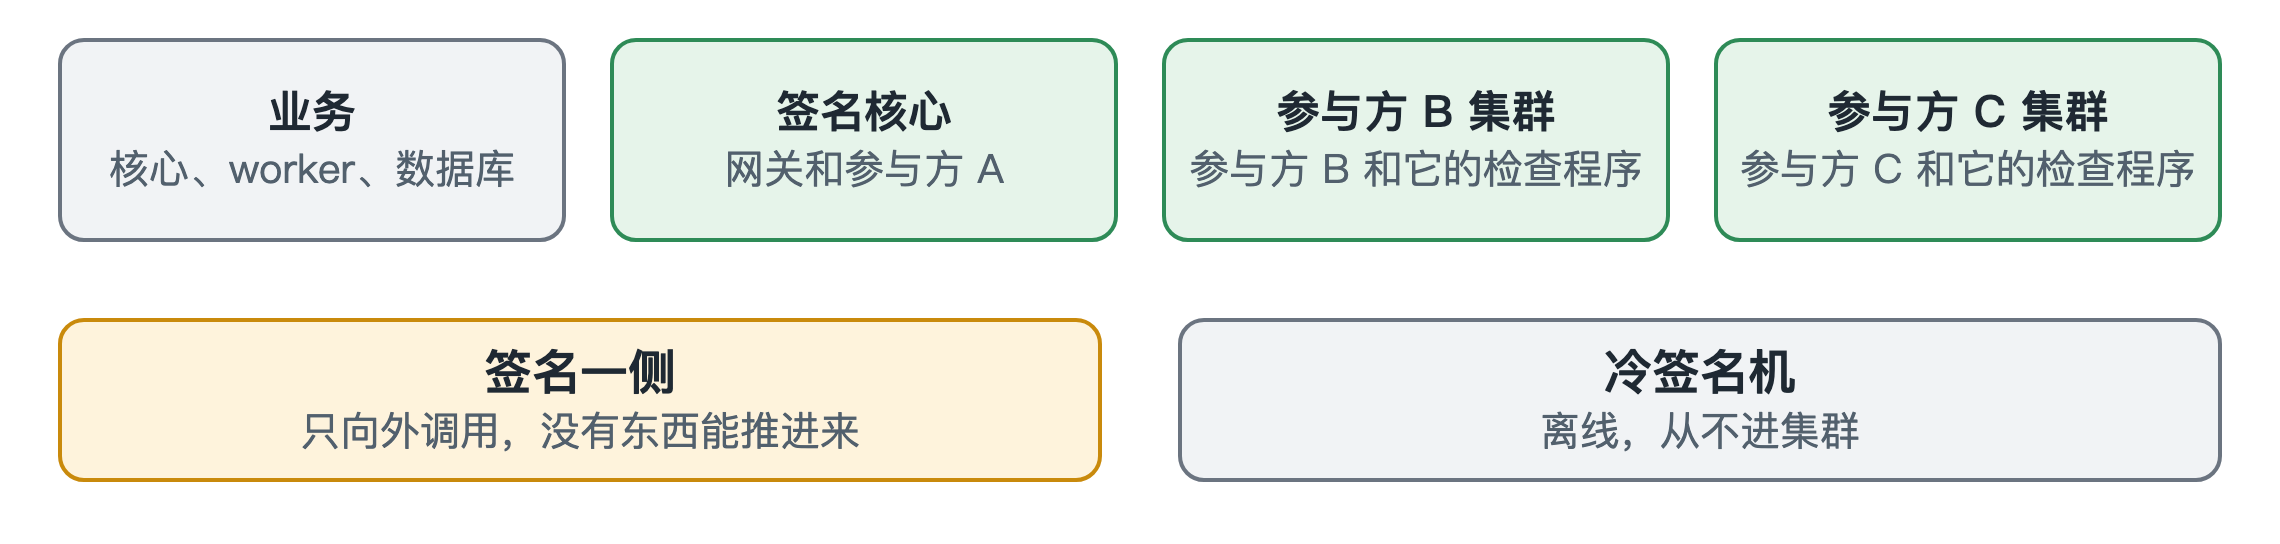
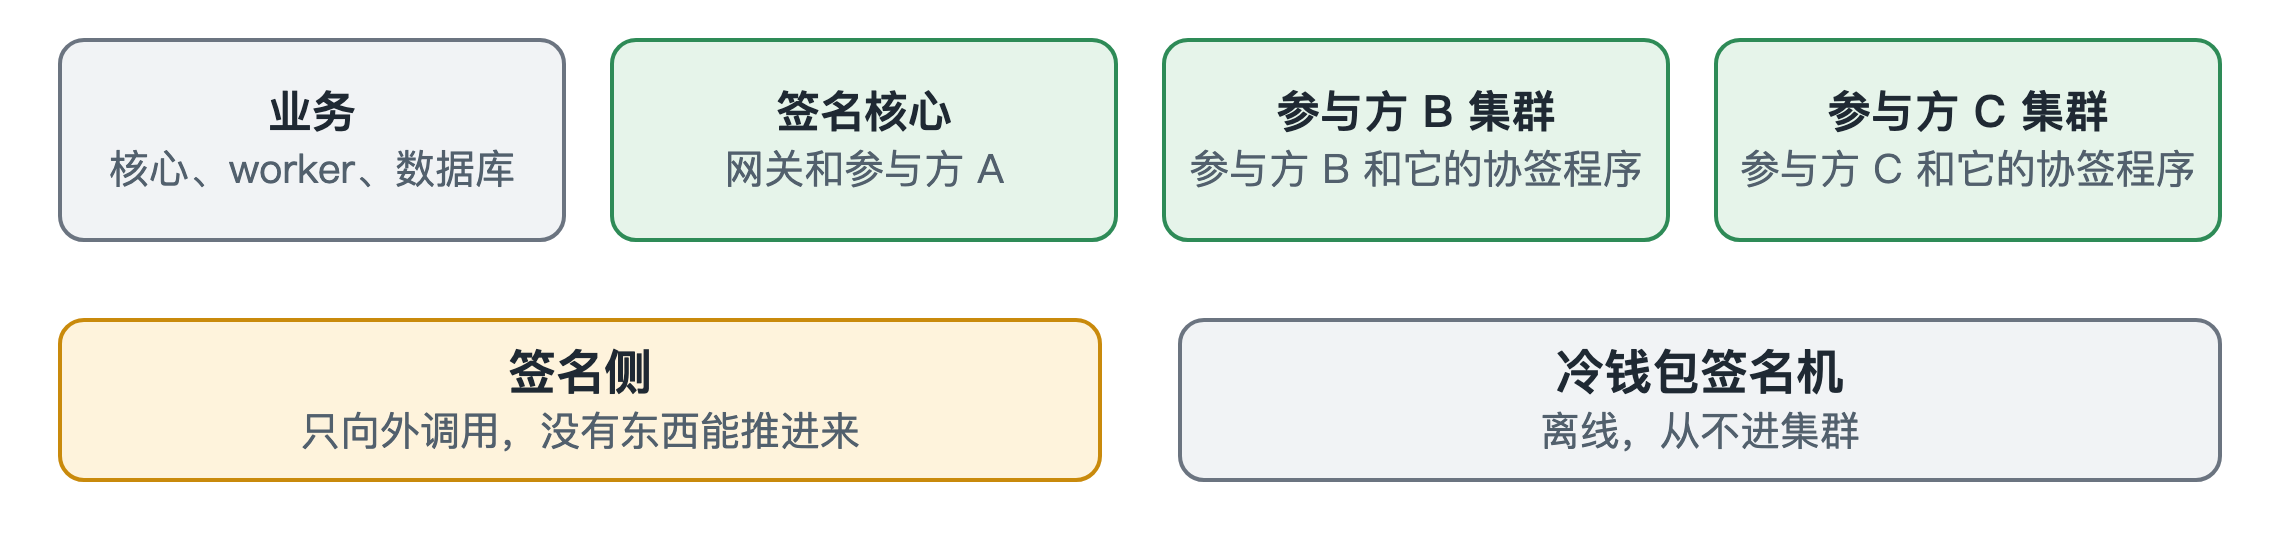
docs: diagram text follows the glossary (cosigner, People, cold signers, 充值, 协签程序, 物理隔离) and regenerated images

diff --git a/docs/images/build.py b/docs/images/build.py
@@ -31,7 +31,7 @@ INK, MUTED = "#1F2933", "#52606D"
 # Chinese text for every English string used below. A string missing here is drawn as is.
 ZH = {
     # architecture tiles
-    "Operators": "运营和审批人", "approve and ask": "审批和发起",
+    "People": "人员", "ask, approve, run": "发起、审批、运营",
     "Core API": "核心 API", "queues jobs, never signs": "只排队任务，从不签名",
     "Workflows": "工作流", "survive crashes": "崩溃后接着走",
     "Ledger": "账本", "double entry, Reconcile": "复式记账、对账",
@@ -44,7 +44,7 @@ ZH = {
     "Solana": "Solana", "durable nonces": "durable nonce",
     "queues sign jobs": "排队签名任务", "asks the parties to sign": "请参与方签名", "signed transactions": "签好的交易",
     # flow
-    "Deposit": "存款", "pays in": "客户转入",
+    "Deposit": "充值", "pays in": "客户转入",
     "Credit": "入账", "when final": "确认后",
     "Sweep": "归集", "to hot": "到热钱包",
     "Withdraw": "提现", "approvals": "审批",
@@ -63,9 +63,9 @@ ZH = {
     "Audit": "审计", "who, how, when": "谁、怎么登录、何时",
     "Signing zone": "签名区", "still checks approver keys itself": "仍自己核对审批人密钥",
     # signing zone
-    "Business side": "业务区", "queues a job": "排队一个任务",
+    "Business side": "业务侧", "queues a job": "排队一个任务",
     "Gateway": "网关", "checks the job": "核对任务",
-    "Cosigners B and C": "B、C 的 cosigner", "check again, alone": "各自再核对一遍",
+    "Cosigners B and C": "B、C 的协签程序", "check again, alone": "各自再核对一遍",
     "Key shares": "密钥份额", "sign together": "一起签名",
     "A check fails": "任何一项核对失败", "nothing is signed, the job says why": "不签名，任务写明原因",
     # ledger
@@ -85,11 +85,11 @@ ZH = {
     "Two-of-three key": "三选二密钥", "any two sign": "任意两方签名",
     "EVM and Solana hot wallets": "EVM、Solana 热钱包",
     "Two-party key tree": "两方密钥树", "A and B both needed": "A 和 B 缺一不可",
-    "Bitcoin, Solana deposit addresses": "Bitcoin、Solana 存款地址",
+    "Bitcoin, Solana deposit addresses": "Bitcoin、Solana 充值地址",
     # tiers
     "Hot wallet": "热钱包", "signs all day": "整天签名", "Cold storage": "冷钱包", "key stays offline": "密钥离线",
     "above upper limit: moves automatically": "高于上限：自动转冷",
-    "below lower limit: refilled by people": "低于下限：由人补充", "Air gap": "隔离网络", "M of N operators approve": "N 人中 M 人批准",
+    "below lower limit: refilled by people": "低于下限：由人补充", "Air gap": "物理隔离", "M of N cold signers approve": "N 位签名人中 M 位批准",
     "refill file": "补充文件",
     # evm
     "Factory": "工厂合约", "owned by the cold key": "归冷密钥所有",
@@ -107,13 +107,13 @@ ZH = {
     "Many small coins": "很多小额币", "merge into one": "合并成一枚", "Consolidate": "合并",
     # solana
     "Address": "地址", "from public data": "来自公开数据",
-    "Deposit": "存款", "read at finalized": "最终确认后读取",
+    "Deposit": "充值", "read at finalized": "最终确认后读取",
     "Batched sweep": "批量归集", "several addresses, one transaction": "多个地址，一笔交易",
     "Nonce account": "nonce 账户", "withdrawal signs its value": "提现签它的值",
     "First version to land": "最先上链的版本", "uses it up; others are refused": "把它用掉，其余被拒绝",
     # new in the sweep
     "Identity": "身份", "login, roles": "登录、角色", "queues jobs only": "只排队任务",
-    "Deposit": "存款", "credited when confirmed": "确认够了才入账",
+    "Deposit": "充值", "credited when confirmed": "确认够了才入账",
     "Send": "发送", "keeps change for a higher fee": "找零里留着加价的余量",
     "Replace": "替换", "same coins, higher fee": "同样的币、更高手续费",
     "Child": "子交易", "pulls a stuck send in": "把卡住的交易拉上链",
@@ -121,7 +121,7 @@ ZH = {
     "Batch": "批量", "many withdrawals, one transaction": "多个提现，一笔交易",
     "Write-once storage": "一次写入存储", "an archiver copies every head": "归档程序复制每个链头",
     # audit
-    "Core": "核心服务", "Cosigner": "Cosigner", "entry": "记录",
+    "Core": "核心服务", "Cosigner": "协签程序", "entry": "记录",
     "Kafka": "Kafka", "heads published, so a cut chain stands out": "链头对外发布，截短的链一眼可见",
     # testing
     "Lane": "泳道", "own DB, chains, tokens": "自己的数据库、链、令牌",
@@ -136,14 +136,14 @@ ZH = {
     # deployment
     "Business": "业务", "core, worker, databases": "核心、worker、数据库",
     "Signing core": "签名核心", "gateway and party A": "网关和参与方 A",
-    "Party B cluster": "参与方 B 集群", "party B and its checker": "参与方 B 和它的检查程序",
-    "Party C cluster": "参与方 C 集群", "party C and its checker": "参与方 C 和它的检查程序",
-    "Signing side": "签名一侧", "only calls out, nothing pushes in": "只向外调用，没有东西能推进来",
-    "Cold signer": "冷签名机", "offline, never in a cluster": "离线，从不进集群",
+    "Party B cluster": "参与方 B 集群", "party B and its cosigner": "参与方 B 和它的协签程序",
+    "Party C cluster": "参与方 C 集群", "party C and its cosigner": "参与方 C 和它的协签程序",
+    "Signing side": "签名侧", "only calls out, nothing pushes in": "只向外调用，没有东西能推进来",
+    "Cold signer": "冷钱包签名机", "offline, never in a cluster": "离线，从不进集群",
     # enclaves
     "Party": "参与方", "starts in": "在飞地里", "an enclave": "启动",
     "Proof": "证明", "of the exact": "确切程序", "program": "的度量结果",
-    "Broker": "代理", "checks, then": "核对后", "releases the key": "才放出密钥",
+    "Broker": "密钥代理", "checks, then": "核对后", "releases the key": "才放出密钥",
     "Key in memory": "内存里的密钥", "opens the": "打开封存", "sealed shares": "的份额",
     "Simulated today": "目前是模拟", "no real enclave has run it yet": "还没有真正的飞地运行过",
 }
@@ -249,7 +249,7 @@ def architecture():
         d.box(left, 2, w - left - right, h - 4, title, sub, c, size=26, sub_size=21)
         return d
 
-    tile("operators", 380, H, "Operators", "approve and ask", "gray").write()
+    tile("operators", 380, H, "People", "ask, approve, run", "gray").write()
 
     d = D("arch-a", 380, 58)  # operators to identity
     d.arrow(190, 2, 190, 56)
@@ -347,7 +347,7 @@ def tiers():
     d.box(820, 40, 290, 120, "Cold storage", "key stays offline", "blue")
     d.arrow(320, 70, 820, 70, "above upper limit: moves automatically", ly=58)
     d.arrow(820, 130, 320, 130, "below lower limit: refilled by people", ly=122)
-    d.box(430, 190, 280, 80, "Air gap", "M of N operators approve", "gray", size=22)
+    d.box(430, 190, 280, 80, "Air gap", "M of N cold signers approve", "gray", size=22)
     d.arrow(570, 190, 570, 138, "", dash=True)
     d.write()
 
@@ -451,7 +451,7 @@ def key_replacement():
 def deployment():
     d = D("deployment", 1140, 272)
     cards(d, [("Business", "core, worker, databases", "gray"), ("Signing core", "gateway and party A", "green"),
-              ("Party B cluster", "party B and its checker", "green"), ("Party C cluster", "party C and its checker", "green")],
+              ("Party B cluster", "party B and its cosigner", "green"), ("Party C cluster", "party C and its cosigner", "green")],
           y=20, h=100, gap=24, size=22)
     d.box(30, 160, 520, 80, "Signing side", "only calls out, nothing pushes in", "amber")
     d.box(590, 160, 520, 80, "Cold signer", "offline, never in a cluster", "gray")

diff --git a/docs/zh/mpc.md b/docs/zh/mpc.md
@@ -4,7 +4,7 @@
 
 这里没有哪台机器持有完整的密钥。每把密钥被切成份额，分给不同的参与方，签名由几方一起完成，就像金库门要几位持钥人同时开锁（多方安全计算，MPC）。
 
-<p align="center"><img src="../images/zh/mpc.png" width="60%" alt="三个参与方各自把密钥份额封存在自己的 HSM 令牌里。EVM 和 Solana 热钱包任意两方即可签名；Bitcoin 和存款地址的密钥需要 A 和 B 一起。"></p>
+<p align="center"><img src="../images/zh/mpc.png" width="60%" alt="三个参与方各自把密钥份额封存在自己的 HSM 令牌里。EVM 和 Solana 热钱包任意两方即可签名；Bitcoin 和充值地址的密钥需要 A 和 B 一起。"></p>
 
 ## 两种密钥
 
